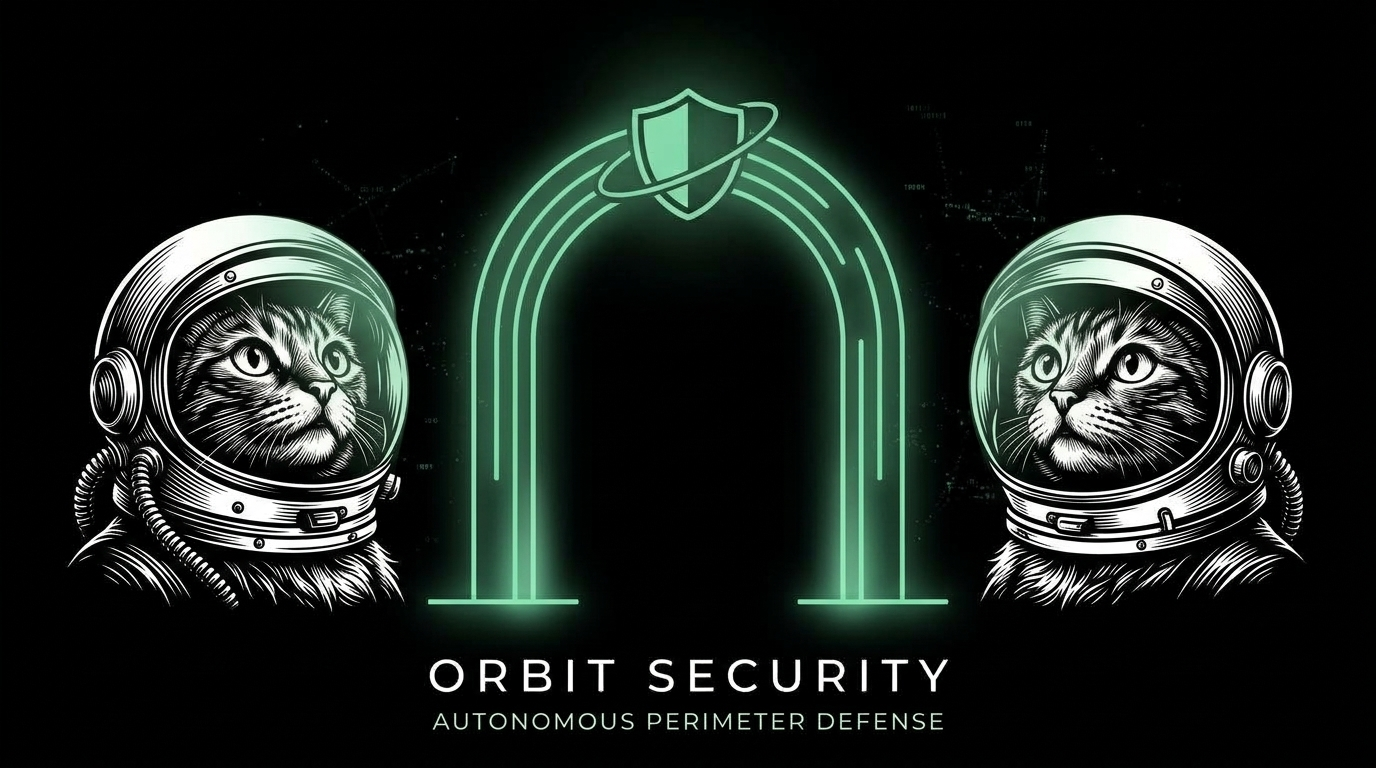
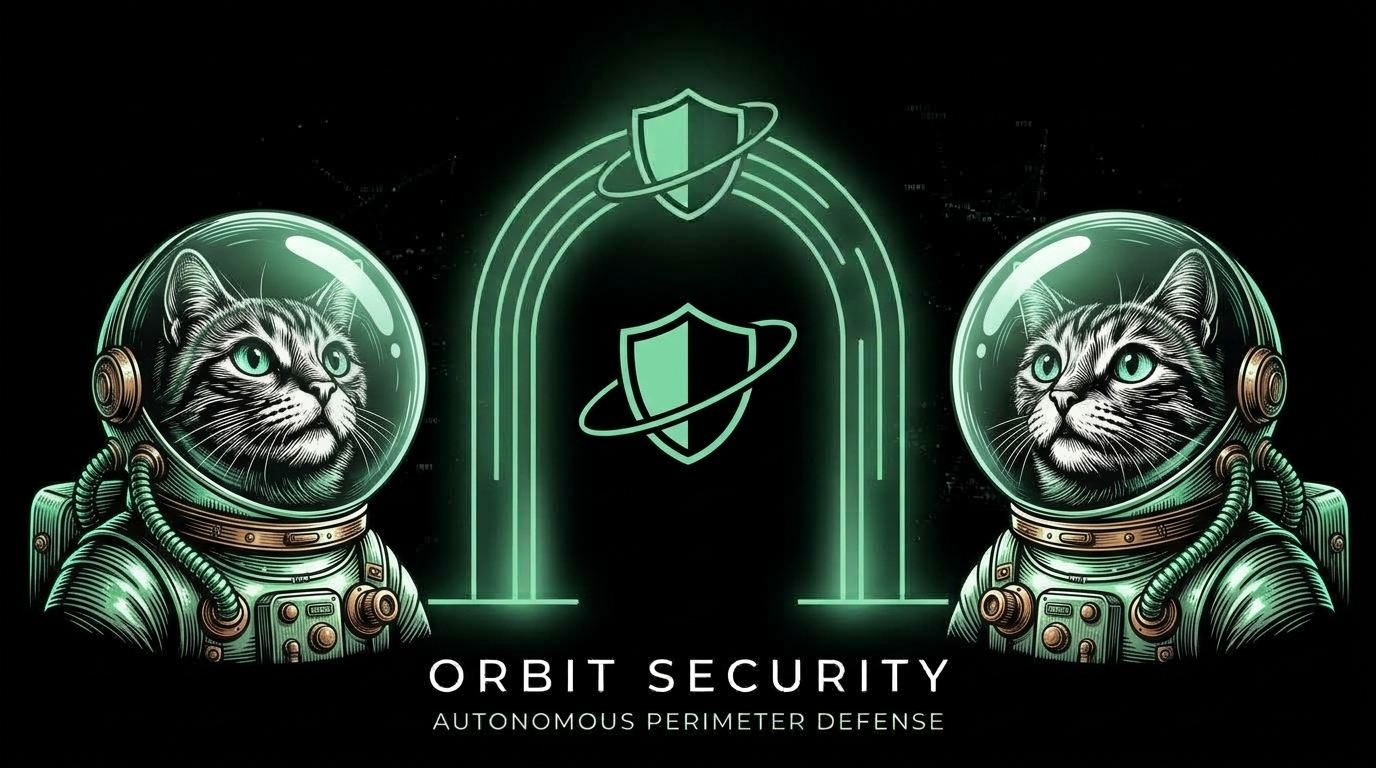
fix(branding): correct Astro-Cat helmet physics and ensure orbital ring brand shield

Changed region(s): [[0.0, 0.25, 0.3125, 0.875], [0.6875, 0.25, 1.0, 0.875], [0.4062, 0.4062, 0.5938, 0.5938]]

diff --git a/scripts/post_cats_facebook.py b/scripts/post_cats_facebook.py
@@ -98,12 +98,15 @@ def run():
         pyautogui.hotkey('ctrl', 'v')
         time.sleep(2.0)
         
-        # 6. Click Post button center at (rect[0] + 400, rect[1] + 980)
-        post_btn_x = rect[0] + 400
-        post_btn_y = rect[1] + 980
+        # 6. Click Post button center at exact coordinates (rect[0] + 390, rect[1] + 989)
+        post_btn_x = rect[0] + 390
+        post_btn_y = rect[1] + 989
         print(f"Clicking Post button at ({post_btn_x}, {post_btn_y})...")
-        pyautogui.click(post_btn_x, post_btn_y)
-        time.sleep(5.0)
+        pyautogui.moveTo(post_btn_x, post_btn_y, duration=0.2)
+        time.sleep(0.2)
+        pyautogui.click()
+        print("Post clicked! Waiting for publication...")
+        time.sleep(7.0)
         
         # 7. Capture verification screenshot
         w = rect[2] - rect[0]
